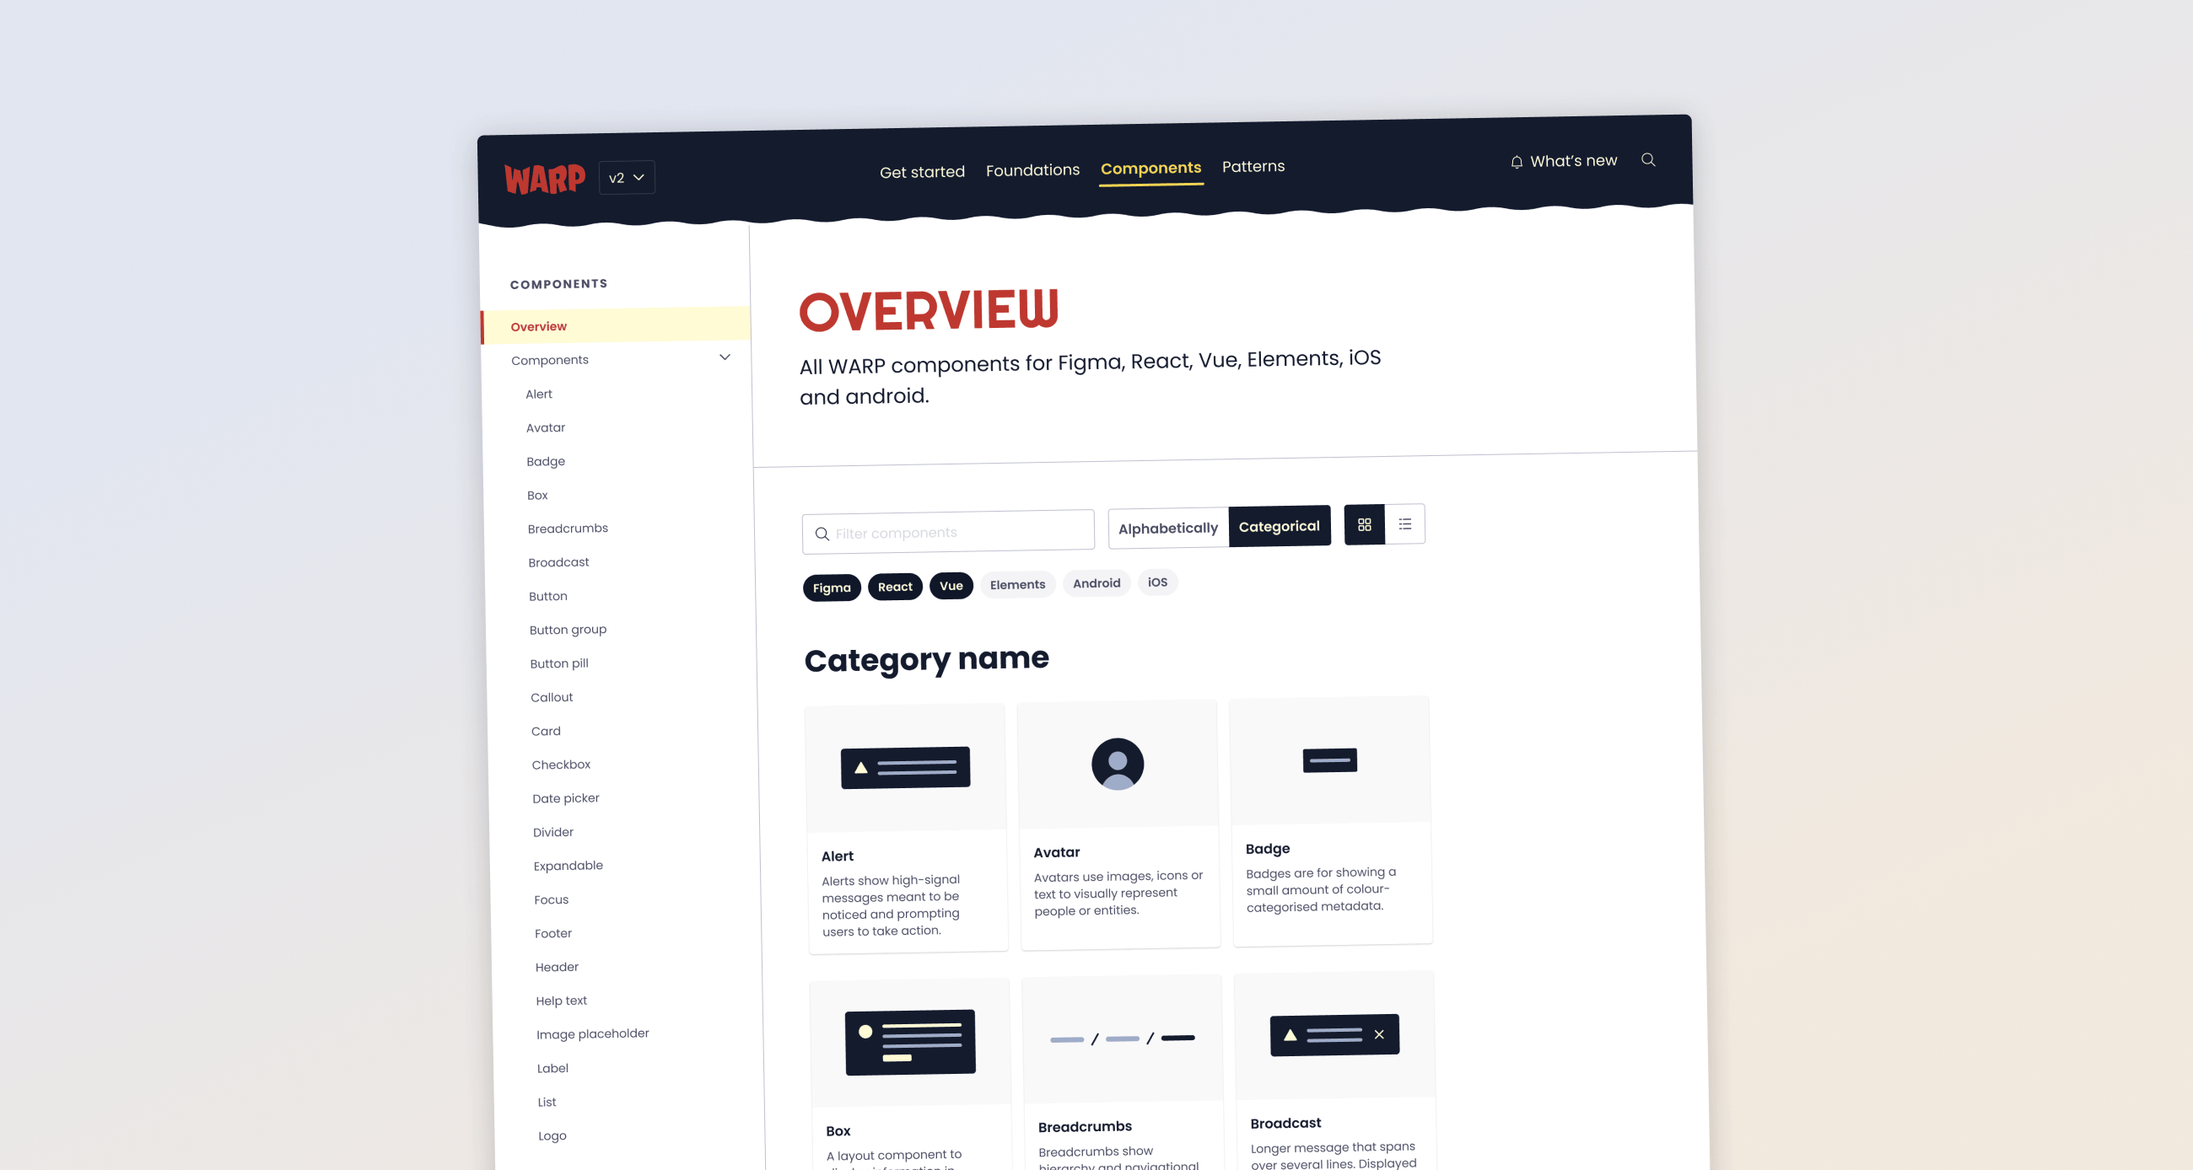
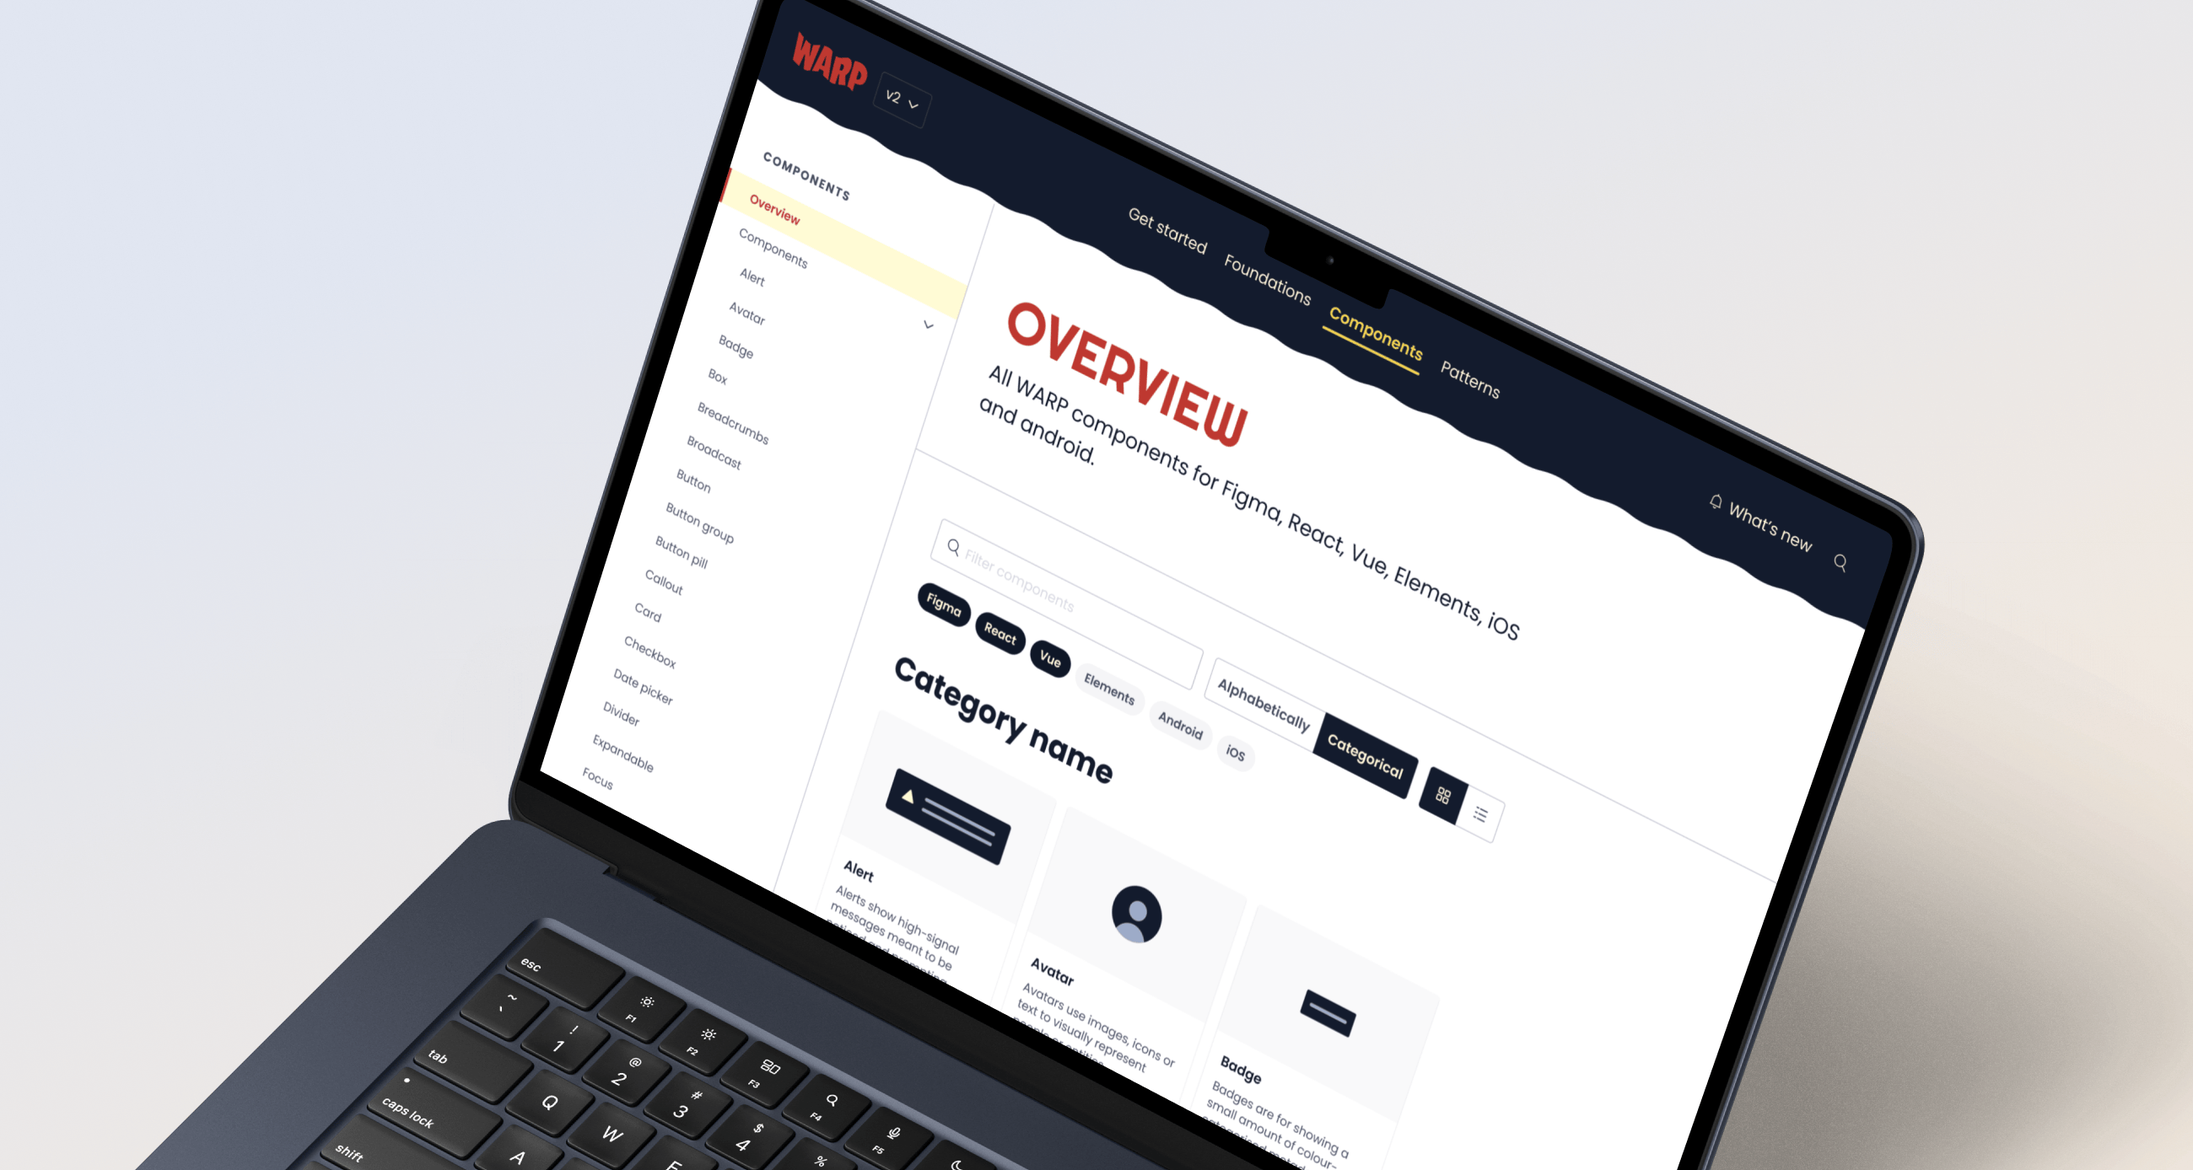
Updates to portfolio content

diff --git a/casestudies/bytbil-blocket.html b/casestudies/bytbil-blocket.html
@@ -53,69 +53,27 @@
                     <p class="casestudy__caption">— <em>Showfloor for cars, background created by me.</em></p>
                 </div>
             </div>
+            <div class="casestudy__role">
+                <div class="casestudy__role-headline">
+                    <strong>My roles at Bytbil / Blocket Fordon</strong>
+                </div>
+                <ul class="casestudy__role-items">
+                    <li>Product designer</li>
+                    <li>UX designer</li>
+                </ul>
+            </div>
             <p class="casestudy__paragraph">
                 <strong>Bytbil</strong> is Sweden’s largest vehicle marketplace, featuring listings from nearly every professional car dealer in the country.<br><br>
                 I joined as a product designer in 2017, and a year later, the company merged with Blocket.
             </p>
             <div class="grid__single">
                 <div class="grid__item">
-                    <img data-src="../img/bytbil/car-page.png" class="lozad casestudy__shadow">
-                    <p class="casestudy__caption">— <em>Car model page in the "New car guide" section.</em></p>
+                    <img data-src="../img/bytbil/filter.jpg" class="lozad">
+                    <p class="casestudy__caption">— <em>Car search with filters and sorting.</em></p>
                 </div>
             </div>
-            <div class="grid__double">
-                <div class="grid__item grid__double-first">
-                    <img data-src="../img/bytbil/small-icons.png" class="lozad casestudy__shadow">
-                    <p class="casestudy__caption">— <em>Various icons used throughout the products.</em></p>
-                </div>
-                <div class="grid__item">
-                    <img data-src="../img/bytbil/big-icons.png" class="lozad casestudy__shadow">
-                </div>
-            </div>
-            <p class="casestudy__paragraph">
-                We collaborated closely with our users, conducting numerous interviews and usability tests to better understand their needs and daily challenges — helping us shape more effective, user-centered products.
-            </p>
-            <div class="grid__single">
-                <div class="grid__item">
-                    <img data-src="../img/bytbil/cartests.jpg" class="lozad">
-                    <p class="casestudy__caption">— <em>Photo by me.</em></p>
-                </div>
-            </div>
-            <p class="casestudy__paragraph">
-                <strong>Nybilsguiden</strong> was a new product I designed, aimed at guiding users through the process of buying a brand-new car.
-            </p>
-            <div class="grid__single">
-                <div class="grid__item">
-                    <img data-src="../img/bytbil/nybil.png" class="lozad casestudy__shadow">
-                    <p class="casestudy__caption">— <em>Startpage for Nybilsguiden.</em></p>
-                </div>
-            </div>
-            <div class="grid__double">
-                <div class="grid__item grid__double-first">
-                    <img data-src="../img/bytbil/editorial-big.jpg" class="lozad">
-                    <p class="casestudy__caption">— <em>An "advertorial" in Expressen - Allt om motor.</em></p>
-                </div>
-                <div class="grid__item">
-                    <img data-src="../img/bytbil/editorial-detail.jpg" class="lozad">
-                    <p class="casestudy__caption">— <em>Layout by me and written by the editor Daniel.</em></p>
-                </div>
-            </div>
-            <div class="grid__double">
-                <div class="grid__item grid__double-first">
-                    <img data-src="../img/bytbil/cartest-photo.jpg" class="lozad">
-                </div>
-                <div class="grid__item">
-                    <img data-src="../img/bytbil/blocket-stickers.jpg" class="lozad">
-                </div>
-            </div>
-            <div class="grid__single">
-                <div class="grid__item">
-                    <img data-src="../img/bytbil/cartest.png" class="lozad casestudy__shadow">
-                    <p class="casestudy__caption">— <em>Independent car test by "Auto Motor Sport".</em></p>
-                </div>
-            </div>
-            <p class="casestudy__paragraph">
-                I primarily worked on the B2B product that enabled car dealers to publish ads on Blocket.
+             <p class="casestudy__paragraph">
+                I primarily worked on the B2B product that enabled car dealers to publish ads on Blocket and Bytbil.
             </p>
             <div class="grid__double">
                 <div class="grid__item grid__double-first">
@@ -125,12 +83,6 @@
                 <div class="grid__item">
                     <img data-src="../img/bytbil/news-card.png" class="lozad">
                     <p class="casestudy__caption">— <em>News card component.</em></p>
-                </div>
-            </div>
-            <div class="grid__single">
-                <div class="grid__item">
-                    <img data-src="../img/bytbil/filter.jpg" class="lozad">
-                    <p class="casestudy__caption">— <em>Car search with filters and sorting.</em></p>
                 </div>
             </div>
             <div class="grid__single">
@@ -147,6 +99,64 @@
                 <div class="grid__item">
                     <img data-src="../img/bytbil/modal.png" class="lozad">
                     <p class="casestudy__caption">— <em>Ad bump modal.</em></p>
+                </div>
+            </div>
+            <p class="casestudy__paragraph">
+                We collaborated closely with our users, conducting numerous interviews and usability tests to better understand their needs and daily challenges — helping us shape more effective, user-centered products.
+            </p>
+            <div class="grid__double">
+                <div class="grid__item grid__double-first">
+                    <img data-src="../img/bytbil/small-icons.png" class="lozad casestudy__shadow">
+                    <p class="casestudy__caption">— <em>Various icons used throughout the products.</em></p>
+                </div>
+                <div class="grid__item">
+                    <img data-src="../img/bytbil/big-icons.png" class="lozad casestudy__shadow">
+                </div>
+            </div>
+            <hr class="hline">
+            <p class="casestudy__paragraph">
+                <strong>Nybilsguiden</strong> was a new product I designed, aimed at guiding users through the process of buying a brand-new car.
+            </p>
+            <div class="grid__single">
+                <div class="grid__item">
+                    <img data-src="../img/bytbil/nybil.png" class="lozad casestudy__shadow">
+                    <p class="casestudy__caption">— <em>Startpage for Nybilsguiden.</em></p>
+                </div>
+            </div>
+            <div class="grid__single">
+                <div class="grid__item">
+                    <img data-src="../img/bytbil/cartests.jpg" class="lozad">
+                    <p class="casestudy__caption">— <em>Photo by me.</em></p>
+                </div>
+            </div>
+            <div class="grid__double">
+                <div class="grid__item grid__double-first">
+                    <img data-src="../img/bytbil/cartest-photo.jpg" class="lozad">
+                </div>
+                <div class="grid__item">
+                    <img data-src="../img/bytbil/blocket-stickers.jpg" class="lozad">
+                </div>
+            </div>
+            <div class="grid__single">
+                <div class="grid__item">
+                    <img data-src="../img/bytbil/car-page.png" class="lozad casestudy__shadow">
+                    <p class="casestudy__caption">— <em>Car model page in the "New car guide" section.</em></p>
+                </div>
+            </div>
+            <div class="grid__double">
+                <div class="grid__item grid__double-first">
+                    <img data-src="../img/bytbil/editorial-big.jpg" class="lozad">
+                    <p class="casestudy__caption">— <em>An "advertorial" in Expressen - Allt om motor.</em></p>
+                </div>
+                <div class="grid__item">
+                    <img data-src="../img/bytbil/editorial-detail.jpg" class="lozad">
+                    <p class="casestudy__caption">— <em>Layout by me and written by the editor Daniel.</em></p>
+                </div>
+            </div>
+            <div class="grid__single">
+                <div class="grid__item">
+                    <img data-src="../img/bytbil/cartest.png" class="lozad casestudy__shadow">
+                    <p class="casestudy__caption">— <em>Independent car test by "Auto Motor Sport".</em></p>
                 </div>
             </div>
             <div class="casestudy__buttongroup">

diff --git a/casestudies/blocket.html b/casestudies/blocket.html
@@ -52,17 +52,28 @@
                     <img src="../img/blocket/blocket_1.png">
                 </div>
             </div>
+            <div class="casestudy__role">
+                <div class="casestudy__role-headline">
+                    <strong>My roles at Blocket</strong>
+                </div>
+                <ul class="casestudy__role-items">
+                    <li>Senior product designer</li>
+                    <li>Design system designer</li>
+                    <li>Visual design lead</li>
+                    <li>UX designer</li>
+                </ul>
+            </div>
             <p class="casestudy__paragraph">
-                I've spent the past seven years at Blocket, working across product, visual, and UX design — contributing to nearly every category and feature across our range of products.<br><br>
-                I was also one of the founding members of our design system team, where I helped define design principles, build the component library, and took on a key role in supporting and guiding a team of around 15 designers to create consistent, high-quality user experiences.
+                I've spent the past seven years at Blocket, working across product, visual, and UX design — contributing to nearly every area and feature across the range of products.<br><br>
+                I was also one of the founding members of the design system team, where I helped define design principles, build the component library, and took on a key role in supporting and guiding a team of around 20 designers to create consistent, high-quality user experiences.
             </p>
             <div class="grid__double">
                 <div class="grid__item grid__double-first">
-                    <img data-src="../img/blocket/blocket_2.png" class="lozad">
+                    <img data-src="../img/blocket/blocket_3.png" class="lozad casestudy__shadow">
+                    <p class="casestudy__caption">— <em>Updated brand, from a concept workshop that I led.</em></p>
                 </div>
                 <div class="grid__item">
-                    <img data-src="../img/blocket/blocket_3.png" class="lozad casestudy__shadow">
-                    <p class="casestudy__caption">— <em>Updated brand, from a concept workshop led by me.</em></p>
+                    <img data-src="../img/blocket/blocket_2.png" class="lozad">
                 </div>
             </div>
             <div class="grid__triple">
@@ -77,8 +88,8 @@
                 </div>
             </div>
             <p class="casestudy__paragraph">
-                One of the biggest lessons I've learned while working with design systems is the importance of communication.<br><br>
-                I'm experienced in giving presentations and running workshops with the users of the design system to ensure alignment and shared understanding.
+                <strong>Blocket Design System.</strong><br>As a founding member of Blocket's design system, I collaborated with a small team of developers to implement token structures, enhance the component library, and create clear documentation. Through internal communication, presentations, and advocacy, we achieved strong adoption across the organization.<br><br>
+                One of the key lessons I've learned is that successful design systems rely on communication. I have extensive experience giving presentations and running workshops with system users to ensure alignment and shared understanding."
             </p>
             <div class="grid__single">
                 <div class="grid__item">
@@ -93,7 +104,7 @@
                 </div>
                 <div class="grid__item">
                     <img data-src="../img/blocket/blocket_9.png" class="lozad casestudy__shadow">
-                    <p class="casestudy__caption">— <em>Design principles</em></p>
+                    <p class="casestudy__caption">— <em>Communicating our design principles</em></p>
                 </div>
             </div>
             <div class="grid__triple">
@@ -108,14 +119,15 @@
                     <img data-src="../img/blocket/blocket_12.png" class="lozad">
                 </div>
             </div>
+            <hr class="hline">
             <div class="grid__single">
                 <div class="grid__item">
                     <img src="../img/blocket/blocket_13.png" class="casestudy__shadow">
                 </div>
             </div>
             <p class="casestudy__paragraph">
-                <strong>Blocket Nybegagnat</strong> was a fun and exciting product where I designed the first iteration, handling both the UI and UX from start to finish.<br><br>
-                It was also the first part of Blocket to implement our refreshed brand — featuring updated colors, typography, and illustrations.
+                <strong>Blocket Nybegagnat</strong> was an exciting product where I designed the first iteration, handling both the UI and UX from start to finish.<br><br>
+                It was also the first part of Blocket to implement the refreshed brand — featuring updated colors, typography, and illustrations.
             </p>
             <div class="grid__single">
                 <div class="grid__item">
@@ -138,6 +150,22 @@
                 <div class="grid__item">
                     <img src="../img/blocket/blocket_18.png" class="casestudy__shadow">
                     <p class="casestudy__caption">— <em>Object page display all options with a clear CTA.</em></p>
+                </div>
+            </div>
+            <hr class="hline">
+             <p class="casestudy__paragraph">
+                <strong>Blocket Utbildning</strong> was a Blocket sub-brand showcasing different types of education programs in Sweden.<br>I worked in a small, agile team, contributing to product design, UX, and user research.
+            </p>
+            <div class="grid__single">
+                <div class="grid__item">
+                    <img src="../img/blocket/blocket_19.png">
+                    <p class="casestudy__caption">— <em>Blocket Utbildning landing page.</em></p>
+                </div>
+            </div>
+            <div class="grid__single">
+                <div class="grid__item">
+                    <img src="../img/blocket/blocket_20.png" class="casestudy__shadow">
+                    <p class="casestudy__caption">— <em>List page with search and filtering.</em></p>
                 </div>
             </div>
             <div class="casestudy__buttongroup">

diff --git a/casestudies/warp.html b/casestudies/warp.html
@@ -43,7 +43,7 @@
                 2022 - 2024
             </div>
         </div>
-        <h1 class="casestudy__headline"><strong>WARP</strong></h1>
+        <h1 class="casestudy__headline"><strong>WARP (Schibsted)</strong></h1>
     </div>
     <div class="inner__content">
         <div class="grid">
@@ -52,8 +52,17 @@
                     <img src="../img/warp/warp_1.png">
                 </div>
             </div>
+            <div class="casestudy__role">
+                <div class="casestudy__role-headline">
+                    <strong>My roles at WARP</strong>
+                </div>
+                <ul class="casestudy__role-items">
+                    <li>Visual designer</li>
+                    <li>Design system Lead</li>
+                </ul>
+            </div>
             <p class="casestudy__paragraph">
-                WARP is a multi-brand design system used by some of the largest marketplaces in the Nordics.
+                WARP is a multi-brand design system used by some of the largest marketplaces in the Nordics. It's the name of a team and a design system and a part of Schibsted.
 I was part of a large cross-functional team, contributing as a visual designer to maintain and evolve the system for hundreds of designers and developers.<br><br>
 My work included everything from design tokens, components, and documentation to creating guidelines and contributing to leadership within the team.<br><br>
 Besides contributing as a visual designer I was also the design system lead for a time.

diff --git a/css/main.css b/css/main.css
@@ -50,9 +50,20 @@ hr {
     display: block;
     height: 1px;
     border: 0;
-    border-top: 1px solid #ccc;
+    
     margin: 1em 0;
     padding: 0;
+}
+
+.hline {
+    border-top: 1px solid #DCE0E5;
+    margin-bottom: 48px;
+}
+
+@media screen and (min-width: 900px) {
+    .hline {
+        margin-bottom: 100px;
+    }
 }
 
 /*
@@ -887,6 +898,10 @@ footer {
     margin-bottom: 50px;
 }
 
+.casestudy__role {
+    margin-bottom: 30px;
+}
+
 @media screen and (min-width: 900px) {
     .casestudy__paragraph {
         width: 816px;
@@ -894,6 +909,23 @@ footer {
         font-size: 24px;
         line-height: 40px;
     }
+}
+
+@media screen and (min-width: 900px) {
+    .casestudy__role {
+        width: 816px;
+        margin: 0 auto 50px;
+        font-size: 24px;
+        line-height: 40px;
+    }
+}
+
+.casestudy__role-headline {
+    margin-bottom: 18px;
+}
+
+.casestudy__role-items {
+    /*color: #4F5967;*/
 }
 
 .casestudy__shadow {

diff --git a/index.html b/index.html
@@ -42,7 +42,7 @@
         <div class="intro__text">
             <h1>Hello, I’m Henrik,<br>a designer from Sweden.</h1>
             <div class="intro__text-preamble">
-                I'm well-versed in UI, UX, and Design systems,<br>with years of experience.
+                I'm well-versed in product design, UX, and design systems,<br>with years of experience.
             </div>
         </div>
     </div>
